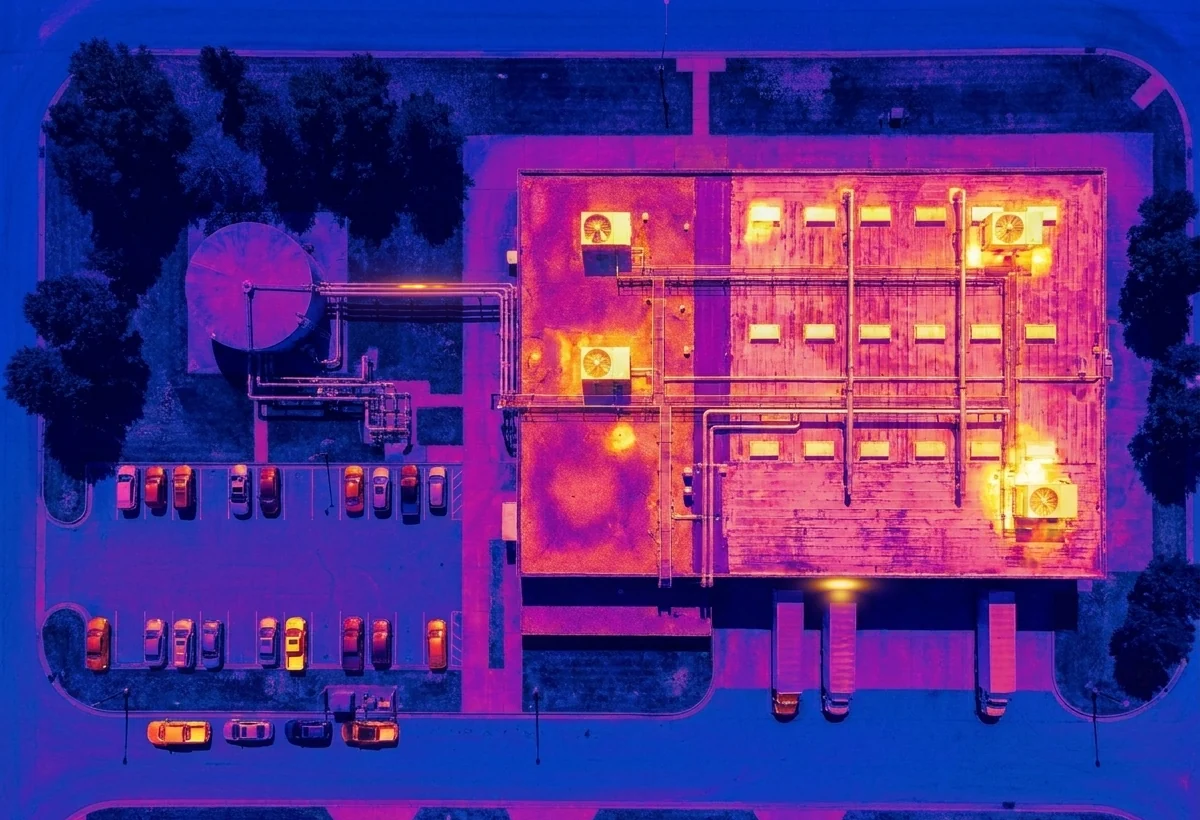
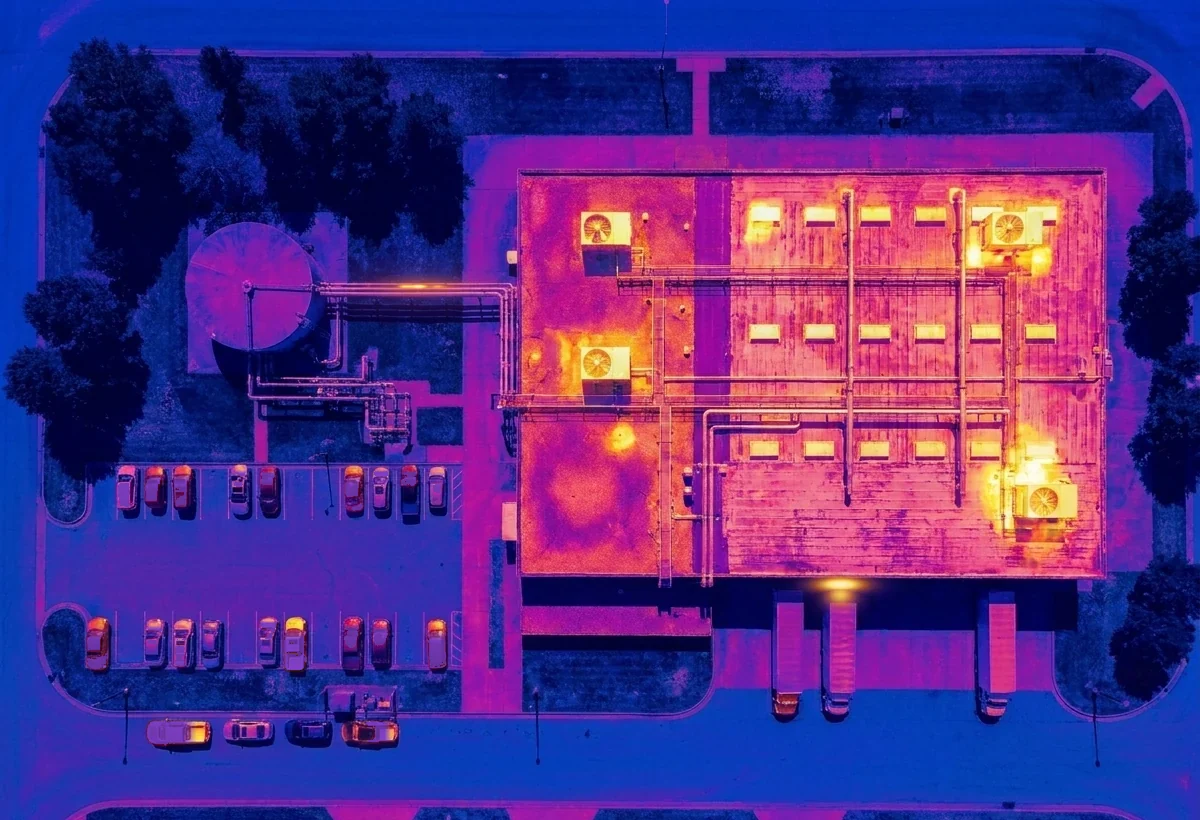
Robot arm at the screen edge; takt clock, control chart and Pareto drawings in the side margins; credential cards tilt and light; thermal cars warm only at the engine

diff --git a/components/Blueprint.tsx b/components/Blueprint.tsx
@@ -327,3 +327,86 @@ export function FitCheck({ className }: { className?: string }) {
     </Sketch>
   );
 }
+
+// Takt clock: a stopwatch whose hand sweeps once per cycle.
+export function TaktClock({ className }: { className?: string }) {
+  const ticks = Array.from({ length: 12 }, (_, i) => {
+    const a = (i / 12) * Math.PI * 2;
+    const r1 = i % 3 === 0 ? 40 : 44;
+    return [70 + Math.sin(a) * r1, 98 - Math.cos(a) * r1, 70 + Math.sin(a) * 50, 98 - Math.cos(a) * 50];
+  });
+  return (
+    <Sketch viewBox="0 0 140 180" label={12} className={className}>
+      <rect pathLength={P} x={62} y={26} width={16} height={10} rx={2} />
+      <line pathLength={P} x1={70} y1={36} x2={70} y2={44} />
+      <circle pathLength={P} cx={70} cy={98} r={54} />
+      {ticks.map(([x1, y1, x2, y2], i) => (
+        <line key={i} x1={x1} y1={y1} x2={x2} y2={y2} />
+      ))}
+      <g className="bp-takt-hand" style={{ transformOrigin: "70px 98px" }}>
+        <line x1={70} y1={104} x2={70} y2={58} />
+      </g>
+      <circle cx={70} cy={98} r={3} />
+      <Label x={36} y={172}>TAKT 60 s</Label>
+    </Sketch>
+  );
+}
+
+// SPC control chart: centre line, control limits, and a reading that walks
+// along the points; one point sits outside the upper limit.
+export function ControlChart({ className }: { className?: string }) {
+  const pts = [
+    [20, 84], [44, 70], [68, 92], [92, 76], [116, 62], [140, 88], [164, 26], [188, 74], [212, 80],
+  ];
+  return (
+    <Sketch viewBox="0 0 230 150" label={12} className={className}>
+      <line pathLength={P} x1={10} y1={130} x2={224} y2={130} />
+      <line pathLength={P} x1={10} y1={14} x2={10} y2={130} />
+      <line className="dash" x1={10} y1={40} x2={224} y2={40} />
+      <line x1={10} y1={78} x2={224} y2={78} />
+      <line className="dash" x1={10} y1={116} x2={224} y2={116} />
+      <polyline pathLength={P} points={pts.map((p) => p.join(",")).join(" ")} />
+      {pts.map(([x, y], i) => (
+        <circle key={i} cx={x} cy={y} r={2.2} />
+      ))}
+      <g className="dim">
+        <circle cx={164} cy={26} r={7} className="bp-spc-flag" />
+      </g>
+      <circle className="bp-spc-dot" r={3.2} style={{ fill: "var(--accent)", stroke: "none" }} />
+      <Label x={14} y={34}>UCL</Label>
+      <Label x={14} y={146}>SPC / X̄ CHART</Label>
+    </Sketch>
+  );
+}
+
+// Pareto chart: falling bars and the cumulative line; the bars breathe slowly.
+export function Pareto({ className }: { className?: string }) {
+  const bars = [92, 64, 40, 24, 14, 8];
+  let sum = 0;
+  const total = bars.reduce((a, b) => a + b, 0);
+  const line = bars.map((b, i) => {
+    sum += b;
+    return `${30 + i * 30},${130 - (sum / total) * 110}`;
+  });
+  return (
+    <Sketch viewBox="0 0 220 160" label={12} className={className}>
+      <line pathLength={P} x1={12} y1={130} x2={208} y2={130} />
+      <line pathLength={P} x1={12} y1={16} x2={12} y2={130} />
+      {bars.map((h, i) => (
+        <rect
+          key={i}
+          className="bp-pareto-bar"
+          style={{ transformOrigin: `0 130px`, animationDelay: `${i * 0.25}s` }}
+          x={18 + i * 30}
+          y={130 - h}
+          width={22}
+          height={h}
+        />
+      ))}
+      <polyline className="dim" points={line.join(" ")} />
+      <line className="dash" x1={12} y1={42} x2={208} y2={42} />
+      <Label x={168} y={36}>80%</Label>
+      <Label x={14} y={152}>PARETO / DEFECTS</Label>
+    </Sketch>
+  );
+}

diff --git a/components/GlassCard.tsx b/components/GlassCard.tsx
@@ -8,13 +8,17 @@ type Props = {
   className?: string;
   /** max tilt in degrees; 0 disables tilt but keeps the moving highlight */
   tilt?: number;
+  /** element to render (li inside lists) */
+  as?: "div" | "li";
+  /** no wrapper div: perspective goes on the card itself (keeps grid/subgrid layouts intact) */
+  bare?: boolean;
 };
 
 // Glass surface whose specular highlight follows the pointer and that tilts
 // a few degrees toward it, like a pane catching light. Motion values only,
 // no React state, so pointer moves never re-render.
-export function GlassCard({ children, className = "", tilt = 6 }: Props) {
-  const ref = useRef<HTMLDivElement>(null);
+export function GlassCard({ children, className = "", tilt = 6, as = "div", bare = false }: Props) {
+  const ref = useRef<HTMLDivElement & HTMLLIElement>(null);
   const reduce = useReducedMotion();
   const px = useMotionValue(0.5);
   const py = useMotionValue(0.5);
@@ -23,7 +27,7 @@ export function GlassCard({ children, className = "", tilt = 6 }: Props) {
   const rotateY = useTransform(sx, [0, 1], [-tilt, tilt]);
   const rotateX = useTransform(sy, [0, 1], [tilt, -tilt]);
 
-  function onMove(e: React.PointerEvent<HTMLDivElement>) {
+  function onMove(e: React.PointerEvent<HTMLElement>) {
     const el = ref.current;
     if (!el || e.pointerType === "touch") return;
     const r = el.getBoundingClientRect();
@@ -45,13 +49,29 @@ export function GlassCard({ children, className = "", tilt = 6 }: Props) {
     if (ref.current) delete ref.current.dataset.lit;
   }
 
+  const tiltStyle = reduce || tilt === 0 ? undefined : { rotateX, rotateY, transformStyle: "preserve-3d" as const };
+  if (bare) {
+    const M = as === "li" ? motion.li : motion.div;
+    return (
+      <M
+        ref={ref}
+        onPointerMove={onMove}
+        onPointerLeave={onLeave}
+        style={tiltStyle ? { ...tiltStyle, transformPerspective: 1200 } : undefined}
+        className={`glass ${className}`}
+      >
+        {children}
+      </M>
+    );
+  }
+
   return (
     <div style={{ perspective: 1200 }} className="h-full">
       <motion.div
         ref={ref}
         onPointerMove={onMove}
         onPointerLeave={onLeave}
-        style={reduce || tilt === 0 ? undefined : { rotateX, rotateY, transformStyle: "preserve-3d" }}
+        style={tiltStyle}
         className={`glass h-full ${className}`}
       >
         {children}

diff --git a/app/globals.css b/app/globals.css
@@ -519,6 +519,10 @@ p, li, figcaption, dd {
   .bp-lamp-stop { animation: bp-lamp-stop 16s ease-in-out infinite; }
   .bp-fit-part { animation: bp-fit-part 13s cubic-bezier(0.65, 0, 0.35, 1) infinite; }
   .bp-fit-ok { animation: bp-fit-ok 13s ease-in-out infinite; }
+  .bp-takt-hand { animation: bp-spin 12s linear infinite; }
+  .bp-spc-dot { animation: bp-spc-walk 9s ease-in-out infinite; }
+  .bp-spc-flag { animation: bp-spc-flag 9s ease-in-out infinite; }
+  .bp-pareto-bar { animation: bp-pareto 10s ease-in-out infinite; }
 }
 .bp-fit-ok { fill: #2f9e44; opacity: 0.4; }
 /* upside down onto the key, a small jiggle, lift, flip, seat, hold, fade, again */
@@ -927,4 +931,28 @@ p, li, figcaption, dd {
 #outside:has([data-marker="4"]:hover) [data-finding="4"] {
   & > span { background: var(--accent); }
   & p, & p span { color: var(--accent); }
+}
+
+/* control chart: the reading steps point to point; the out-of-limit point flashes as it lands there */
+.bp-spc-dot { transform: translate(20px, 84px); }
+@keyframes bp-spc-walk {
+  0% { transform: translate(20px, 84px); }
+  11% { transform: translate(44px, 70px); }
+  22% { transform: translate(68px, 92px); }
+  33% { transform: translate(92px, 76px); }
+  44% { transform: translate(116px, 62px); }
+  55% { transform: translate(140px, 88px); }
+  66% { transform: translate(164px, 26px); }
+  77% { transform: translate(188px, 74px); }
+  88%, 100% { transform: translate(212px, 80px); }
+}
+.bp-spc-flag { opacity: 0.4; }
+@keyframes bp-spc-flag {
+  0%, 62% { opacity: 0.15; }
+  66%, 76% { opacity: 1; }
+  82%, 100% { opacity: 0.15; }
+}
+@keyframes bp-pareto {
+  0%, 100% { transform: scaleY(1); }
+  50% { transform: scaleY(0.82); }
 }

diff --git a/components/Hero.tsx b/components/Hero.tsx
@@ -99,7 +99,6 @@ export function Hero() {
           </div>
         ) : (
           <div className="rise relative mx-auto w-full max-w-sm pb-10 lg:mr-0 lg:max-w-[400px] lg:self-center lg:pb-16 xl:max-w-[440px]" style={d(360)}>
-            <RobotArm caption={false} className="absolute -top-[200px] right-[-5%] -z-10 hidden w-[230px] lg:block" />
             <GlassCard className="rounded-card p-6 sm:p-7">
               <div className="flex items-center gap-4">
                 <div className="grid h-14 w-14 shrink-0 place-items-center rounded-panel bg-ink text-lg font-semibold tracking-tight text-bg shadow-[inset_0_1px_0_rgb(255_255_255/0.16)]">
@@ -140,6 +139,9 @@ export function Hero() {
             </GlassCard>
           </div>
         )}
+
+        {/* robot cell: stands at the right edge of the screen, partly behind the profile card */}
+        <RobotArm caption={false} className="absolute right-[max(10px,calc(50vw-745px))] top-[64px] -z-10 hidden w-[230px] lg:block" />
 
         {/* shop floor: the assembly line runs along the hero's base line, behind everything */}
         <AssemblyLine className="sketch-fade-top absolute bottom-0 left-[22%] -z-20 hidden w-[min(760px,66vw)] lg:block" />

diff --git a/components/Credentials.tsx b/components/Credentials.tsx
@@ -1,5 +1,6 @@
 import { ArrowUpRight, Certificate } from "@phosphor-icons/react/dist/ssr";
 import { credentials } from "@/content/site";
+import { GlassCard } from "./GlassCard";
 
 // Every mark sits in the same 44px rounded square, centred. Belt colors follow
 // the Lean Six Sigma convention; the certificate uses the site accent; badges
@@ -58,7 +59,7 @@ export function Credentials({ wide = false }: { wide?: boolean }) {
             </>
           );
           return (
-            <li key={c.title} className={`glass rounded-panel ${row}`}>
+            <GlassCard as="li" bare tilt={3} key={c.title} className={`rounded-panel ${row}`}>
               {c.href ? (
                 // quiet link: opens the certificate in the site's PDF viewer
                 <a
@@ -76,7 +77,7 @@ export function Credentials({ wide = false }: { wide?: boolean }) {
               ) : (
                 <div className={`${inner} grid-cols-[2.75rem_minmax(0,1fr)]`}>{body}</div>
               )}
-            </li>
+            </GlassCard>
           );
         })}
       </ul>

diff --git a/components/Experience.tsx b/components/Experience.tsx
@@ -4,7 +4,7 @@ import US from "country-flag-icons/react/3x2/US";
 import { ArrowUpRight } from "@phosphor-icons/react/dist/ssr";
 import Link from "next/link";
 import { experience } from "@/content/site";
-import { Gears } from "./Blueprint";
+import { ControlChart, Gears } from "./Blueprint";
 import { CertLink } from "./CertLink";
 import { Reveal } from "./Reveal";
 import { RoleDetails } from "./RoleDetails";
@@ -20,6 +20,7 @@ export function Experience({ phoneLimit, title = "Experience" }: { phoneLimit?: 
     >
       {/* drafting rule: draws across as the section scrolls in */}
       <div aria-hidden className="sheet-rule mb-8 md:mb-10" />
+      <ControlChart className="absolute left-[calc(50%-50vw+14px)] top-[46%] -z-10 hidden w-[132px] min-[1400px]:block" />
       <Gears className="absolute right-[3%] top-16 -z-10 hidden w-[200px] xl:block" />
       <Reveal>
         <h2 className="text-4xl font-semibold tracking-[-0.03em] text-ink md:text-5xl">

diff --git a/components/Featured.tsx b/components/Featured.tsx
@@ -1,13 +1,16 @@
 import { ArrowRight, ArrowUpRight, Check } from "@phosphor-icons/react/dist/ssr";
 import Link from "next/link";
 import { featured } from "@/content/site";
+import { TaktClock } from "./Blueprint";
 import { GlassCard } from "./GlassCard";
 import { LoopVideo } from "./LoopVideo";
 import { Reveal } from "./Reveal";
 
 export function Featured({ title = "Selected work" }: { title?: string }) {
   return (
-    <section id="work" className="mx-auto max-w-[1274px] px-5 pt-14 md:px-8 md:pt-16">
+    <section id="work" className="relative mx-auto max-w-[1274px] px-5 pt-14 md:px-8 md:pt-16">
+      {/* edge drawing in the side margin (wide screens) */}
+      <TaktClock className="absolute left-[calc(50%-50vw+18px)] top-28 -z-10 hidden w-[108px] min-[1400px]:block" />
       {/* drafting rule: draws across as the section scrolls in */}
       <div aria-hidden className="sheet-rule mb-8 md:mb-10" />
       <Reveal>

diff --git a/components/ResearchSnippet.tsx b/components/ResearchSnippet.tsx
@@ -1,12 +1,13 @@
 import { ArrowRight, ArrowUpRight, FilePdf } from "@phosphor-icons/react/dist/ssr";
 import Link from "next/link";
 import { papers, researchIntro, researchMaterials } from "@/content/research";
-import { ValueStream } from "./Blueprint";
+import { Pareto, ValueStream } from "./Blueprint";
 import { Reveal } from "./Reveal";
 
 export function ResearchSnippet() {
   return (
     <section id="research" className="relative isolate mx-auto max-w-[1274px] px-5 pb-12 pt-12 md:px-8 md:pb-16 md:pt-16">
+      <Pareto className="absolute right-[calc(50%-50vw+14px)] top-24 -z-10 hidden w-[132px] min-[1400px]:block" />
       {/* drafting rule: draws across as the section scrolls in */}
       <div aria-hidden className="sheet-rule mb-8 md:mb-10" />
       {/* value stream map as a faded background behind the heading, fading toward the text */}
